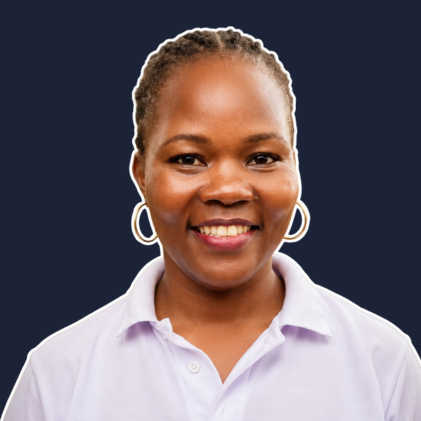
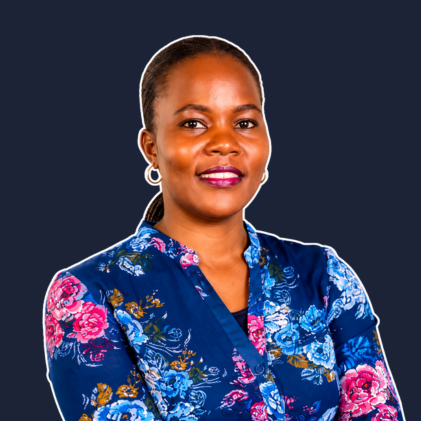
feedback16

diff --git a/team-detail2.html b/team-detail2.html
@@ -218,7 +218,14 @@
 							<div class="title">More About Me</div>
 							<h2>James Tusabe</h2>
 						</div>
-						<div class="bold-text">My name is James Tusabe, and I am a dedicated Junior Accountant with a strong foundation in financial management and accounting principles.<br> I hold a Bachelor’s degree in Business Administration with a major in Accounting from Makerere University Business School. My expertise lies in transaction processing, bookkeeping, and financial documentation, with hands-on experience using QuickBooks and Microsoft Excel.</div>
+						<div class="bold-text">My name is James Tusabe, through NCBS I have completed a Diploma in Accounting & Finance with Oxford Study Home, trained remotely with MvdW in Business in the Netherlands, completed a course with Work For A
+Living, and gained valuable experience working with Mereo Finance.<br>
+Today, I confidently support accounting firms handling multiple clients with professionalism, precision and integrity.<br>
+
+My journey is exactly why Nile Centre Business Support Ltd. exists:<br>
+Turning local talent into global opportunity.<br>
+Creating pathways for young professionals to grow beyond borders.<br>
+Transforming potential into purpose. </div>
 						<div class="marketing">You can also find me on <a href="https://www.linkedin.com/in/james-tusabe-b990b5352/">LinkedIn</a></div>
 						<div class="row clearfix">
 							